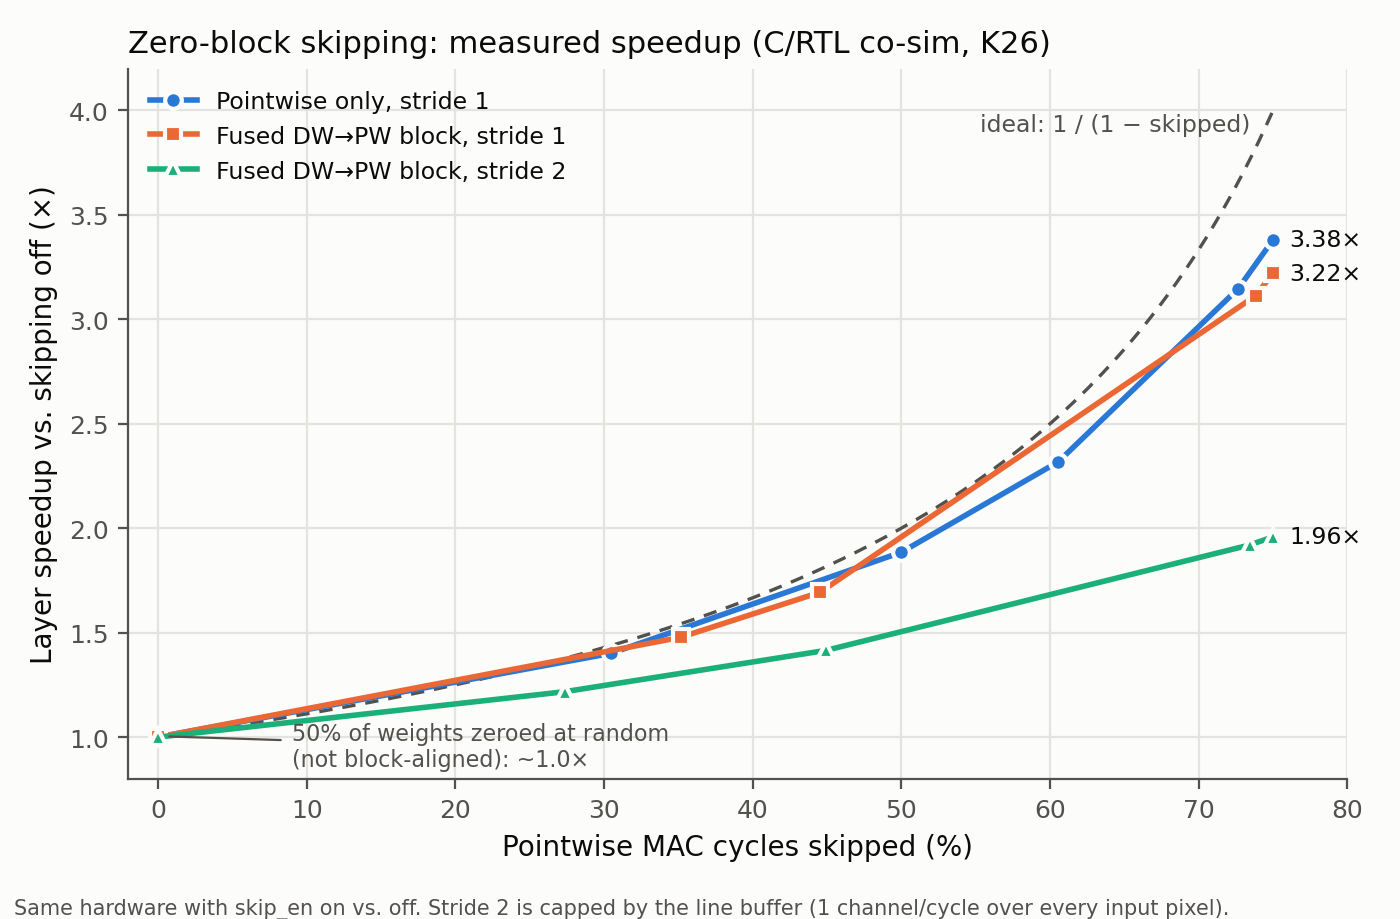
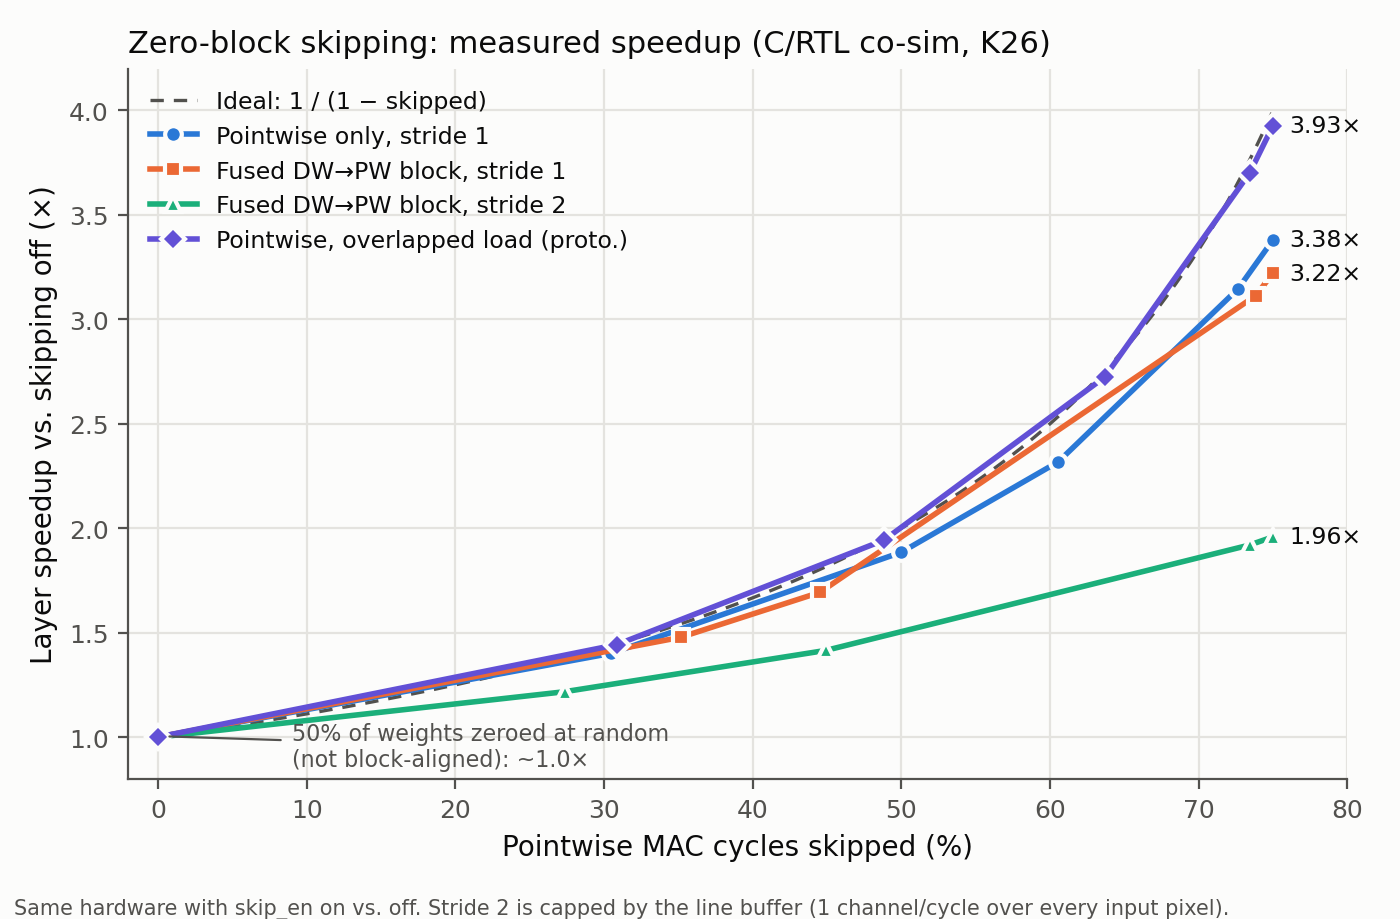
Results: overlapped-load prototype reaches near-ideal skip speedup
pointwise_skip_pipe_top, co-sim on K26 (bit-exact, 0 dependence
warnings): a call costs exactly sched_len x pixels + 405 cycles, so
per-pixel overhead drops from ~16.6 to ~1.6 cycles. Speedup vs its own
bypass: 1.94x at 50% blocks pruned (was 1.88x), 3.70x at 90% (was
3.15x), 3.93x all-zero (ideal 4x). Post-route 4.194 ns (~238 MHz),
663 LUT / 576 FF / 10 DSP. Added to the CSVs, README and speedup plot.

diff --git a/hls/compute/results/make_plots.py b/hls/compute/results/make_plots.py
@@ -61,8 +61,7 @@ def fig_speedup(rows):
     # Ideal: speedup = 1 / (1 - skipped), if skipping removed cycles with no overhead.
     xs = [i * 0.5 for i in range(0, 151)]
     ax.plot(xs, [1.0 / (1.0 - x / 100.0) for x in xs], color=TEXT2, linewidth=1.2,
-            linestyle=(0, (4, 3)), zorder=1)
-    ax.text(73.5, 3.9, "ideal: 1 / (1 − skipped)", color=TEXT2, fontsize=8.5, ha="right")
+            linestyle=(0, (4, 3)), zorder=1, label="Ideal: 1 / (1 − skipped)")
 
     for kernel, stride, label, color, marker in SERIES:
         pts = sorted((r["skipped_pct"], r["speedup"]) for r in rows

diff --git a/hls/compute/results/README.md b/hls/compute/results/README.md
@@ -9,21 +9,27 @@ place & route. Raw data: `cosim_results.csv`, `timing_results.csv`. Figures:
 
 Same hardware, `skip_en` on vs off (bypass). From `cosim_results.csv`:
 
-| Blocks pruned | MAC cycles skipped | `pointwise_skip_top` (s1) | `dsc_top` stride 1 | `dsc_top` stride 2 |
-|---|---|---|---|---|
-| 30% | ~28–31% | 1.40× | 1.48× | 1.22× |
-| 50% | ~45–50% | 1.88× | 1.69× | 1.41× |
-| 90% | ~73% | 3.15× | 3.11× | 1.92× |
-| all zero | 75% (cap) | 3.38× | 3.22× | 1.96× |
-| 50% unstructured | 0.4% | 1.00× | 1.00× | 1.00× |
+| Blocks pruned | MAC cycles skipped | `pointwise_skip_top` (s1) | **`pointwise_skip_pipe_top`** (s1) | `dsc_top` stride 1 | `dsc_top` stride 2 |
+|---|---|---|---|---|---|
+| 30% | ~28–31% | 1.40× | **1.44×** | 1.48× | 1.22× |
+| 50% | ~45–50% | 1.88× | **1.94×** | 1.69× | 1.41× |
+| 70% | ~61–64% | 2.32× | **2.72×** | — | — |
+| 90% | ~73% | 3.15× | **3.70×** | 3.11× | 1.92× |
+| all zero | 75% (cap) | 3.38× | **3.93×** | 3.22× | 1.96× |
+| 50% unstructured | 0.4% | 1.00× | **1.00×** | 1.00× | 1.00× |
 
 (Each test case draws its own random pruning, so the same "50%" lands on slightly
-different skip rates in different suites.)
+different skip rates in different suites. Speedups are always against the same kernel's
+own bypass run.)
 
 - **Speedup tracks the ideal `1 / (1 − skipped)` closely at stride 1.**
-- **The gap at high sparsity is fixed per-pixel overhead.** About 15 cycles per pixel
-  go to loading the input and restarting the pipeline. `pointwise_skip_pipe_top` is a
-  prototype that removes this; its co-sim numbers are still to come.
+- **The gap at high sparsity is fixed per-pixel overhead, and the prototype removes it.**
+  `pointwise_skip_top` spends ~16.6 cycles per pixel loading the input and restarting
+  the pipeline. `pointwise_skip_pipe_top` loads the next pixel during the current one,
+  so a call costs exactly `sched_len × pixels + 405` cycles: ~1.6 cycles per pixel of
+  one-time setup, spread over the layer. At 90% pruning that's 3.70× instead of 3.15×,
+  and with all weights zero 3.93× against a 4× ideal. The same structure would carry
+  over to `pw_stage` in `dsc_top`.
 - **Stride 2 caps near 2×.** The line buffer walks every input pixel at one channel per
   cycle, so depthwise, not pointwise, becomes the bottleneck.
 - **Unstructured pruning gives nothing.** A block of 8 random weights is almost never
@@ -36,6 +42,7 @@ From `timing_results.csv`:
 | Design | HLS estimate | Post-synth | **Post-route** | Fmax | 200 MHz? | LUT / FF / DSP / BRAM18 |
 |---|---|---|---|---|---|---|
 | `pointwise_skip_top` | 3.64 ns | 3.41 ns | **4.26 ns** | ~235 MHz | met | 557 / 607 / 8 / 0 |
+| `pointwise_skip_pipe_top` (prototype) | 3.64 ns | 3.41 ns | **4.19 ns** | ~238 MHz | met | 663 / 576 / 10 / 0 |
 | `dsc_top` (PR #2) | 3.65 ns | 5.09 ns | **5.54 ns** | ~181 MHz | **not met** | 3,662 / 5,162 / 17 / 30 |
 | `dsc_top` + BRAM output register (fix) | 3.65 ns | 3.43 ns | **4.24 ns** | **~236 MHz** | **met** | 3,639 / 5,212 / 17 / 30 |
 
